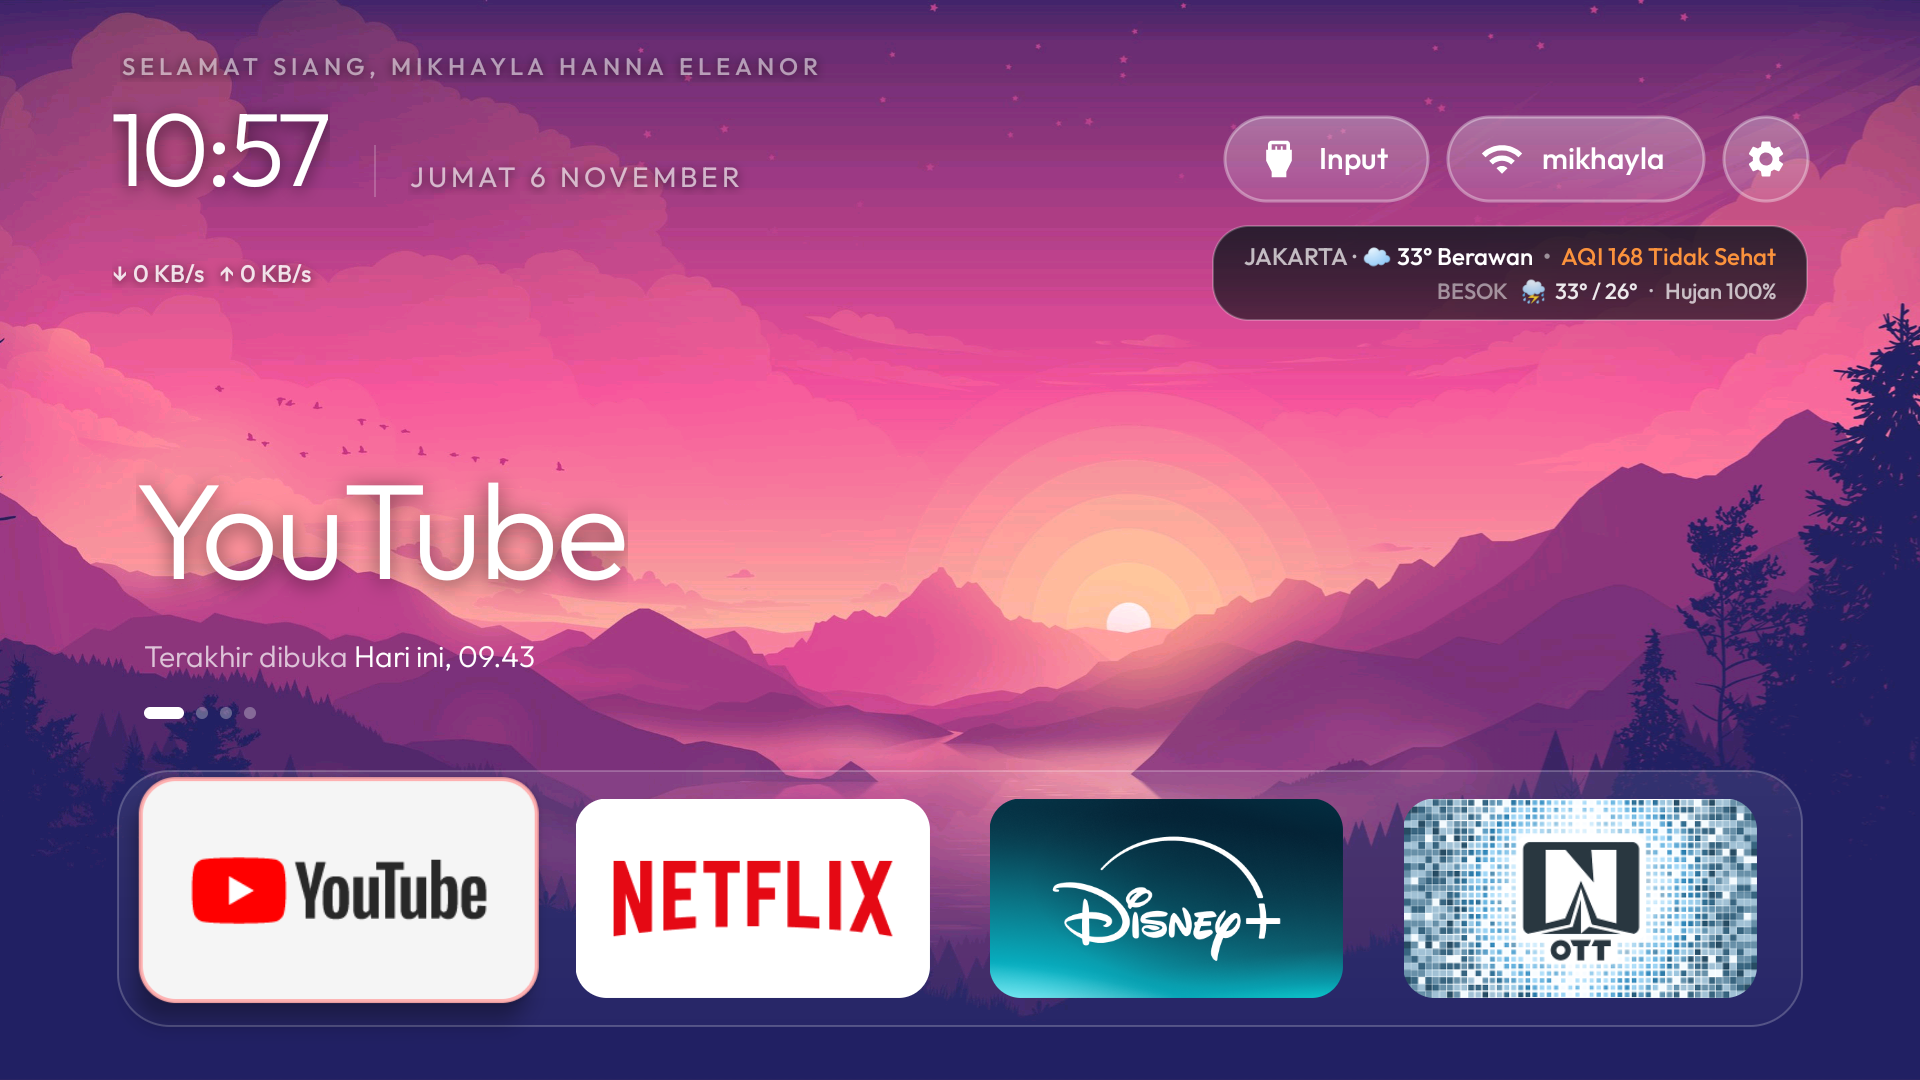
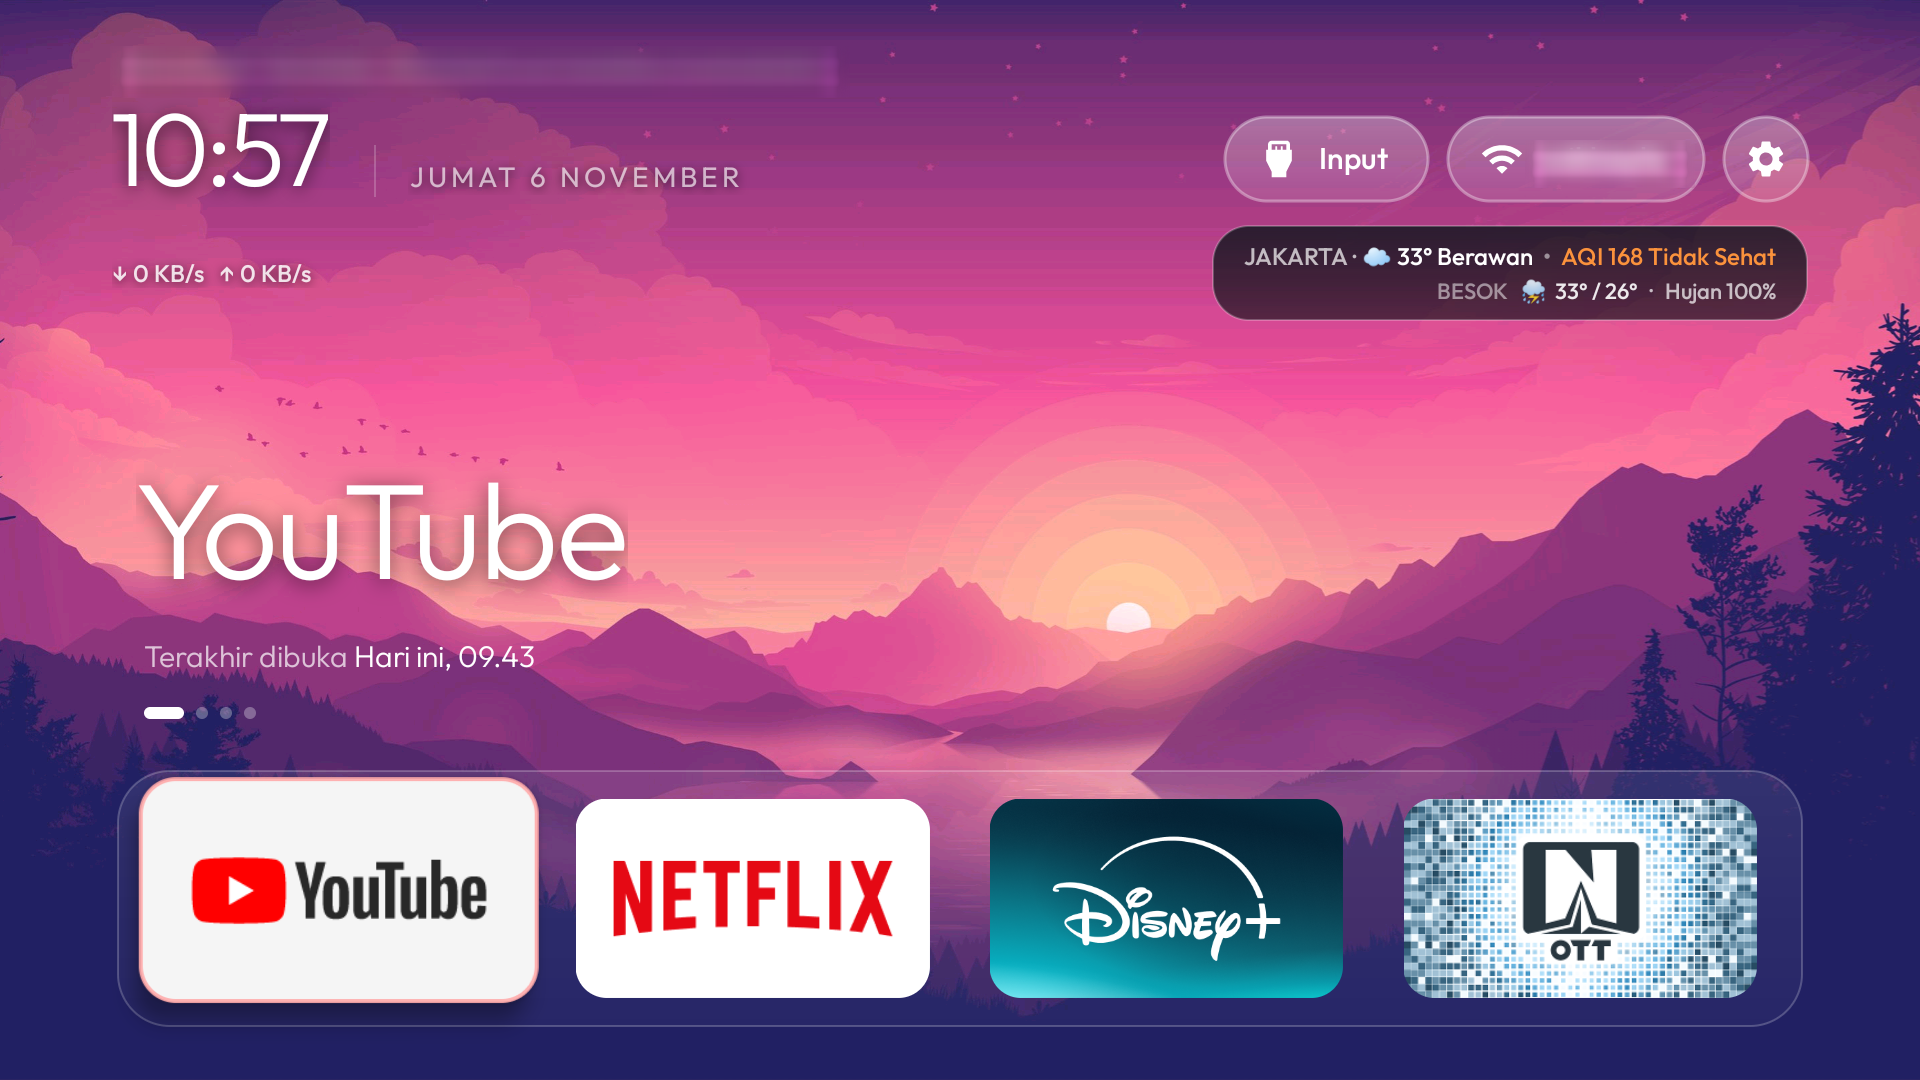
README: before/after and screensaver shots, with the SSID and name blurred

Changed region(s): [[0.0625, 0.0306, 0.4375, 0.0917], [0.7812, 0.1222, 0.875, 0.1833]]

diff --git a/README.md b/README.md
@@ -2,7 +2,13 @@
 
 A customized build of the [cleanyourtv](https://github.com/Gathin23/cleanyourtv) launcher (v2.7, versionCode 8) with a Liquid Glass look, Jakarta weather, PS5-style navigation sounds, and a wallpaper-synced idle screensaver. Built and tested on a **TCL BeyondTV (Android TV 9, API 28)**.
 
-![Home](screenshots/papay-home-2026-11-06.png)
+| Before: stock TCL home | After: Papay launcher |
+|---|---|
+| ![Before](screenshots/before-stock-2026-10-24.png) | ![After](screenshots/papay-home-2026-11-06.png) |
+
+![Screensaver](screenshots/jakarta-screensaver-2026-10-27.png)
+
+*Idle screensaver: same wallpaper, clock, weather and greeting.*
 
 ## Features
 
